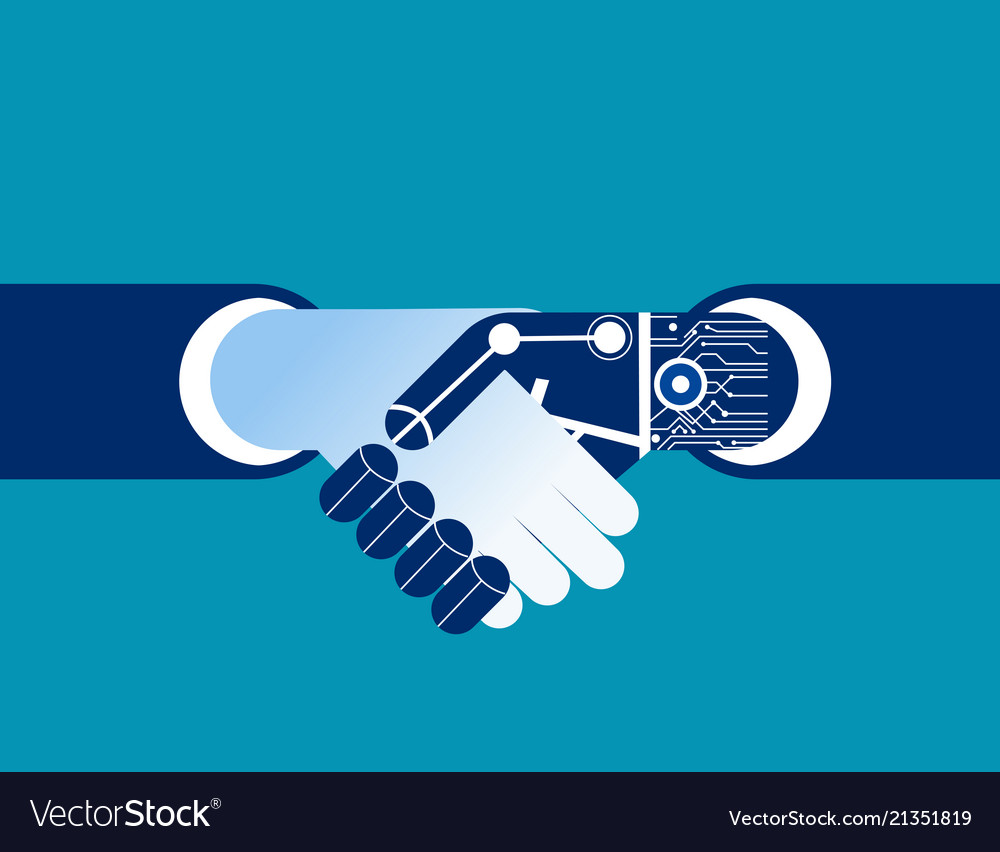
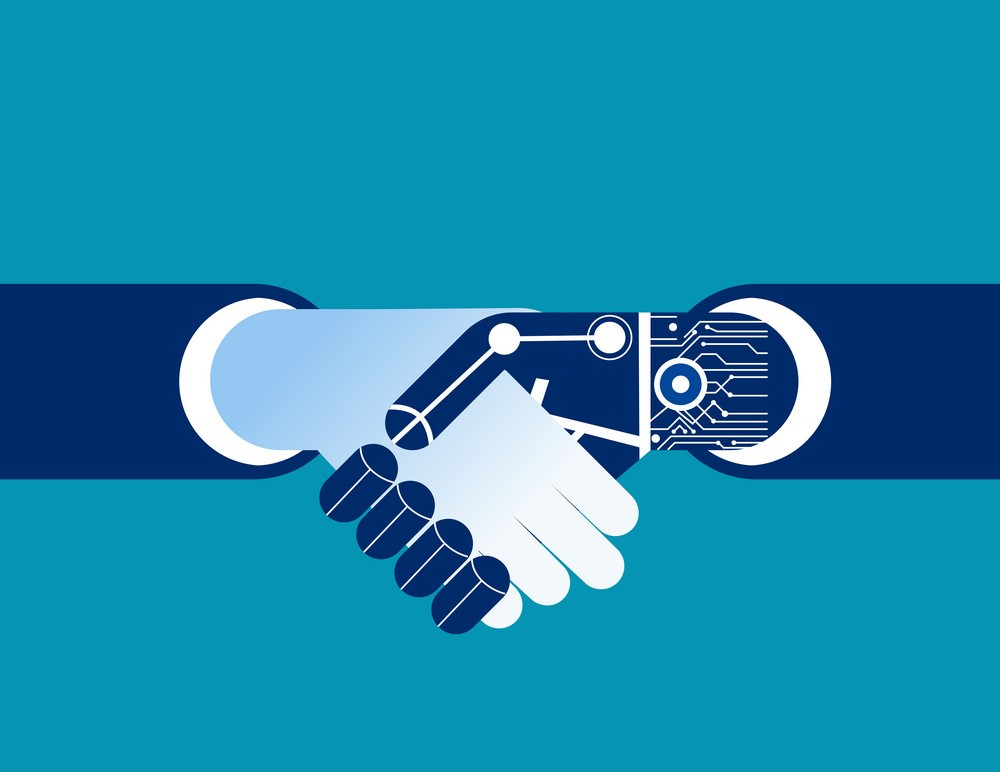
final touches

Changed region(s): [[0.0, 0.3109, 1.0, 0.8394], [0.0, 0.9016, 1.0, 1.0], [0.527, 0.6218, 0.558, 0.6528]]

diff --git a/public/body3.html b/public/body3.html
@@ -7,7 +7,7 @@
 </head>
 <body>
     <div class = handshake>
-        <img src="21351819.jpg">
+     
     </div>
     <div class = heading>
         <a id = "1" href="index.html">Home</a>
@@ -27,7 +27,7 @@
         <p>A test developed by British computer scientist Alan Turing in 1950 that analyses a computer’s 
         ability to emulate humans. The test involves a human judge, a human participant, and a computer.
         The human judge must determine which of the two is the human. This test is originally designed to
-        determine if machines can think.</p>
+        determine if machines can think (Turing, 1950).</p>
         <!--https://doi.org/10.1093%2Fmind%2FLIX.236.433-->
         <img src="TuringTestScheme-3.png" class="testpic">
         <!--https://botsociety.io/blog/2018/03/the-turing-test/-->
@@ -44,10 +44,10 @@
         <p>All machines are created by humans to perform a certain task. 
            If a programmer wants their program to have needs, it has to be deliberately 
            and artificially implemented. On its own a robot doesn’t care. There is no way for a robot to
-           go rogue unless it is told to do so.</p>
+           go rogue unless it is told to do so (Boden, 2019).</p>
 
         <h2>Safety Procedures</h2>
-        <h3>Saftey Testing</h3>
+        <h3>Safety Testing</h3>
         <p>There are many safety testing procedures done before a robot is complete. 
            There are not only tests on the robot but there is also training for those who maintain and manage the robot.
            Robots get tested for both hardware and software malfunctions to prove that they are safe.</p>
@@ -64,13 +64,14 @@
             a properly documented methodology. The robots will also require sensors to monitor motor position and switches to prevent motors from running 
             out of travel limits.</p>
         
-        <h3>Saftey Regulations</h3>
+        <h3>Safety Regulations</h3>
         <p>In regards to the training for the humans working with the robots…
                 “Any user responsible for the safety of the robot shall be trained appropriately, prior to operating the robot, 
                 and shall be aware of the dangers and precautions to be taken. In the special case of a robot bearing harmful parts 
                 a special, visible and legible sign shall be placed on the robot by the manufacturer warning any user. “ (Mitka, Gasteratos, Kyriakoulis, Mouroutsos, 2012).</p>
         <p>The manufacturer of the robot must also provide complete and clear instructions in a user’s instruction manual so the user will have full knowledge of the possible dangers 
             related to the robot. The robot also have their own backup procedure if the user fails to recognize any problems or cannot control/fix the problem. The robot will come to a halt with the backup procedure or it will also have an emergency stop programmed that if the emergency button is pressed it will stop within seconds. </p>
-    </div>
+        <br><br><br>
+        </div>
     <script src="/scripts/script.js"></script>
 </body>

diff --git a/public/body2.html b/public/body2.html
@@ -7,7 +7,7 @@
 </head>
 <body>
     <div class = handshake>
-        <img src="21351819.jpg">
+       
     </div>
     <div class = heading>
         <a id = "1" href="index.html">Home</a>
@@ -64,6 +64,24 @@
             In 2015, Bessen worked on the relationship between the rise of ATM and the
             tellers, a job relates to banking. This plot shows the result.</p>
         <img src="graphh.png" class="graph3">
+        <p>While the number of ATMs increased rapidly from the 1900s, the positions for tellers
+            experience little increase. In this case, the rise of ATMs stimulated 
+            the banking market, creating more demands for the banking industry. Ultimatley, the extra
+            banks and demand contribute to more tellers and more ATMs. Rather than banking, similar
+            example takes places everywhere. In engineering, the new automation will create
+            a bunch of new jobs such as AI programmer, automation maintainer and so on. 
+            The Market demand for those jobs will be around 50 million (James & Susan, 2017).
+            Also, the development of medic robots can enlarge people’s lifespan and enhance
+            the population such that there will estimated 130 million jobs by 2030 in the 
+            health care and caretaking industry (James & Susan, 2017). In general, the 400
+            to 800 billion unemployment will be solved by new jobs and increasing demands (James & Susan, 2017).
+            </p>
+        <p>However, those adaptations in society do not mean people can go merrily on as 
+            before. Around the 75 to 375 million people need to face the occupation 
+            shift which is about 15% of the workforce (James & Susan, 2017). As an 
+            individual, people need to change occupational category and learn new skills
+            to fit the adaptation otherwise, we are still under the risk of losing jobs.</p>
+        <br><br><br>
     </div>
     <script src="/scripts/script.js"></script>
 </body>

diff --git a/public/index.html b/public/index.html
@@ -7,7 +7,7 @@
 </head>
 <body>
     <div class = handshake>
-        <img src="21351819.jpg">
+
     </div>
     <div class = heading>
         <a id = "1" href="index.html">Home</a>
@@ -18,14 +18,34 @@
         <a id = "6" href="about.html">About</a>
     </div>
     <div class="homevideo">
+            <h2>The Bright Side of Automation</h2>
         <h1>How the Media Portrays Robots</h1>
         <video class="vid" width="720" height="405" controls >
             <source src="robotss.mp4" type="video/mp4">
         </video>
-        <!--<iframe class="vid" src="robotss.mp4" controls preload = "none"></iframe>-->
+        <p>In this Video clip, we see two famous scenes from Terminator, 
+                and 2001: A Space Odessey. These two clips show two common fears
+                people have around automation and robots. 
+            </p>
+            <br>
+        <h1>Common Fears about Automation</h3>
+        <ul>
+            <li>Robots aren't safe or trustworthy</li>
+            <li>Automation will take all of our jobs</li>
+            <li>Robots will be come Sentient and start the apocalypse</li>
+        </ul>
+        <br>
+        <h1>The Goal of this Website</h3>
+        <p>This website was made to show that robots are beneficial to society
+            and that these common fears have no basis other than media craze. Robotics
+            and Automation are going to become more prevalent in society as technologies
+            and methods are developed. Knowing how Automation works and why robots are here
+            to help is important knowledge for everyone.
+        </p>
+        <br>
     </div>
     <div class="videodesc">
-        <p>Video Description</p>
+        
     </div>
     <script src="/scripts/script.js"></script>
 </body>

diff --git a/public/css/style.css b/public/css/style.css
@@ -13,7 +13,7 @@ body, html{
 div{
     margin:0em;
 }
-p {
+p,li {
     font-size: 1.25em; 
 }
 a {
@@ -24,7 +24,15 @@ h1{
     font-size: 2em;
     color: #535657;
 }
+h2{
+    font-size: 3em; 
+}
 .handshake{
+    background-image: url(/21351819.jpg);
+    background-size: 20%;
+    background-repeat: no-repeat; 
+    background-position: center;
+    background-color: #0594b4;
     position: absolute;
     top: 0%;
     width: 100%;
@@ -63,30 +71,52 @@ h1{
 /* Section containing video */
 .homevideo{
     position: relative;
-    top: 40.5%;
+    top: 30.5%;
     height: 20%;
     text-align: center;
 }
 
 /* h1 tags in the video section*/
-.homevideo h1{
-    
+.homevideo p{
+    text-align: justify;
+    position: relative;
+    margin: auto;
+    margin-bottom: 20px;
+    width: 50%;
+    color: #4F646F;
 }
 
 /* Video Size */
 .vid{
-
+    margin-bottom: 20px;
 }
 
 /* Description underneath video*/
 .videodesc{
     position: relative;
-    top: 85%;
+    top: 90%;
+    width: 100%;
     text-align: center;
     color: #4F646F;
+
 }
 
 /* Text in the video description*/
 .videodesc p{
-   position: relative;
+    text-align: justify;
+    position: relative;
+    margin: auto;
+    margin-bottom: 20px;
+    width: 50%;
+    color: #4F646F;
+}
+
+li{
+    text-align: center;
+    position: relative;
+    margin: auto;
+    margin-bottom: 20px;
+    width: 50%;
+    color: #4F646F;
+    list-style-type: none;
 }

diff --git a/public/sources.html b/public/sources.html
@@ -7,7 +7,7 @@
 </head>
 <body>
     <div class = handshake>
-        <img src="21351819.jpg">
+
     </div>
     <div class = heading>
         <a id = "1" href="index.html">Home</a>
@@ -32,7 +32,7 @@
         <p>-Hawksworth, J., & Fertig, Y. (2018). What will be the net impact of AI and related technologies 
                 on jobs in the UK? UK Economic Outlook,36-46. Retrieved April 2, 2019, from  
                 https://www.pwc.co.uk/economic-services/ukeo/ukeo-july18-net-impact-ai-uk-jobs.pdf.</p>
-        <p>-ames Manika & Susan Lund (2017). JOBS LOST, JOBS GAINED: WORKFORCE TRANSITIONS IN      
+        <p>-Manika, J., & Lund, S.(2017). JOBS LOST, JOBS GAINED: WORKFORCE TRANSITIONS IN      
                 A TIME OF AUTOMATION. McKinsey & Company, 30-70. Retrieved April 15, 2019.</p>
         <p>-Lewis, A., & Tan, K. (1997). High Precision Formation Control of Mobile Robots Using Virtual 
                 Structures. Autonomous Robots,4(4), 387-403. Retrieved April 2, 2019, from 
@@ -55,6 +55,7 @@
                 doi:http://dx.doi.org/10.3390/su10051661</p>
         <p>-Waldrop, M. M. (2018, July 28). The future of work: Will robots take my job? Retrieved April 3, 
                 2019, from     https://www.knowablemagazine.org/article/technology/2018/future-work-will-robots-take-my-job</p>
-    </div>
+        <br><br><br>
+            </div>
     <script src="/scripts/script.js"></script>
 </body>

diff --git a/public/about.html b/public/about.html
@@ -7,7 +7,7 @@
 </head>
 <body>
     <div class = handshake>
-        <img src="21351819.jpg">
+        
     </div>
     <div class = heading>
         <a id = "1" href="index.html">Home</a>
@@ -25,7 +25,16 @@
             to educate people online about automation. We are trying to counteract the effects
             of Cultivation Theory and Mean World Syndrome.
         </p><br>
-        <p>Jon-Pierre Antoine, Matthew Crotty, Leon Dong, Jim Yuan, and Elissa Wong</p>
+        <p>Jon-Pierre Antoine, Matthew Crotty, Leon Dong, Jim Yuan, and Elissa Wong</p><br>
+        <p>Credits</p>
+        <ul> 
+            <li>Jon-Pierre Antoine: Web Design, Artificial Intelligenve Advancement, Sources</li>
+            <li>Matthew Crotty: Web Design, Can Robots Think, Introduction</li>
+            <li>Leon Dong: Job Loss, Mechanical Application</li>
+            <li>Jim Yuan: Video Editing, Medical Application</li>
+            <li>Elissa Wong: Job Loss, Safety Regulations, Questions</li>
+        </ul>
+        <br><br><br><br><br><br>
     </div>
     <script src="/scripts/script.js"></script>
 </body>

diff --git a/public/body1.html b/public/body1.html
@@ -7,7 +7,7 @@
 </head>
 <body>
     <div class = handshake>
-        <img src="21351819.jpg">
+  
     </div>
     <div class = heading>
         <a id = "1" href="index.html">Home</a>
@@ -36,6 +36,9 @@
             <p>The same algorithm is used so there is no room for error The same algorithm is used so there is no room for error between each run of the algorithm as it is already programmed to work exactly 
                 the same each time. This would be much more precise compared to a human performing the same task multiple times. Not every time would be performed exactly the same way because humans experience human error. 
             </p>
+            <br>
+            <br>
+            <br>
         </div>
     </div>
     <script src="/scripts/script.js"></script>

diff --git a/public/css/article.css b/public/css/article.css
@@ -38,6 +38,11 @@ h3{
 }
 
 .handshake{
+    background-image: url(/21351819.jpg);
+    background-size: 20%;
+    background-repeat: no-repeat; 
+    background-position: center;
+    background-color: #0594b4;
     position: absolute;
     top: 0%;
     width: 100%;
@@ -72,7 +77,7 @@ h3{
 }
 
 .article{
-    top: 40.5%;
+    top: 30.5%;
     position: relative;
     text-align: center;
     align-content: center;
@@ -85,7 +90,15 @@ h3{
     width: 50%;
     color: #4F646F;
 }
-
+.article li{
+    text-align: center;
+    list-style-type: none;
+    position: relative;
+    margin: auto;
+    margin-bottom: 20px;
+    width: 50%;
+    color: #4F646F;
+}
 .article section{
     display: inline-block;
     text-align: center;
